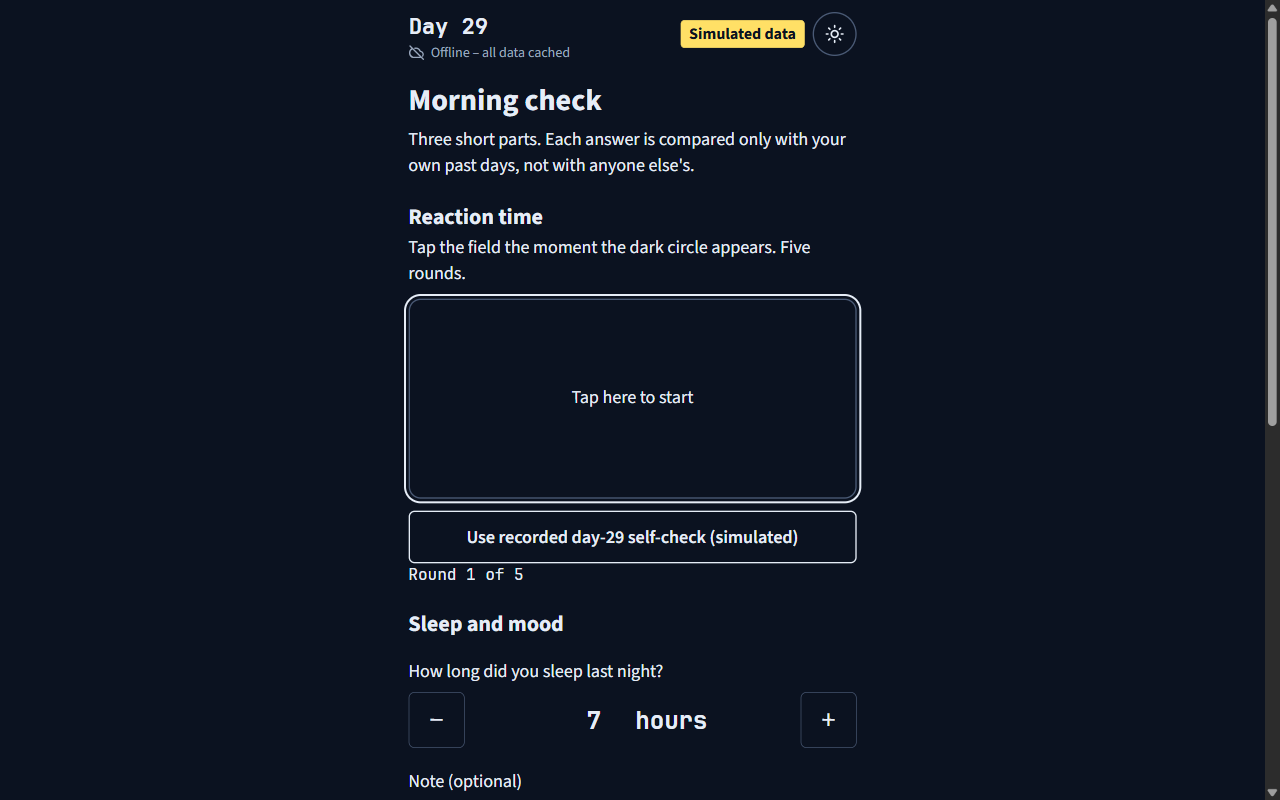
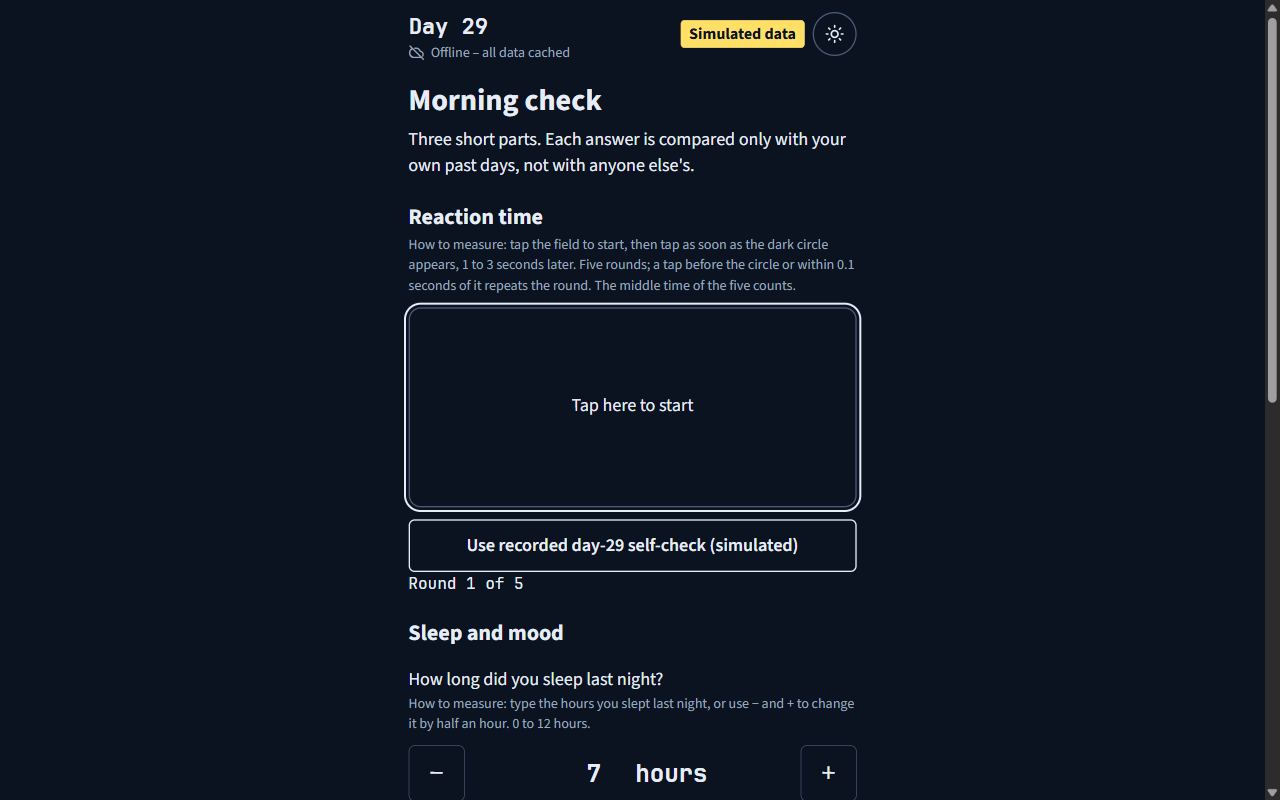
Statement labels: Guidance, Needs flight surgeon attention, and a How to measure line under each self-check part

diff --git a/index.html b/index.html
@@ -290,7 +290,7 @@ fieldset { border: 0; padding: 0; margin: 28px 0 0; min-width: 0; }
   <p>Three short parts. Each answer is compared only with your own past days, not with anyone else's.</p>
 
   <h2>Reaction time</h2>
-  <p>Tap the field the moment the dark circle appears. Five rounds.</p>
+  <p class="meta how">How to measure: tap the field to start, then tap as soon as the dark circle appears, 1 to 3 seconds later. Five rounds; a tap before the circle or within 0.1 seconds of it repeats the round. The middle time of the five counts.</p>
   <button id="rt-field" class="rt" type="button" aria-describedby="rt-status">
     <span id="rt-dot" class="rt-dot" role="img" aria-label="Circle shown, tap now" hidden></span>
     <span id="rt-text">Tap here to start</span>
@@ -302,6 +302,7 @@ fieldset { border: 0; padding: 0; margin: 28px 0 0; min-width: 0; }
 
   <h2>Sleep and mood</h2>
   <label class="q" for="sleep">How long did you sleep last night?</label>
+  <p class="meta how">How to measure: type the hours you slept last night, or use − and + to change it by half an hour. 0 to 12 hours.</p>
   <div class="stepper">
     <button class="step-btn" type="button" data-step="-0.5" aria-label="Half an hour less">−</button>
     <span class="step-field"><input id="sleep" class="field" type="number" inputmode="decimal" step="0.5" min="0" max="12" value="7"> hours</span>
@@ -312,6 +313,7 @@ fieldset { border: 0; padding: 0; margin: 28px 0 0; min-width: 0; }
 
   <fieldset aria-describedby="quality-ends">
     <legend>How well did you sleep?</legend>
+    <p class="meta how">How to measure: tap one number, from 1 (badly) to 5 (very well).</p>
     <div class="seg">
       <input type="radio" id="quality-1" name="quality" value="1"><label for="quality-1">1</label>
       <input type="radio" id="quality-2" name="quality" value="2"><label for="quality-2">2</label>
@@ -324,6 +326,7 @@ fieldset { border: 0; padding: 0; margin: 28px 0 0; min-width: 0; }
 
   <fieldset aria-describedby="mood-ends">
     <legend>How is your mood this morning?</legend>
+    <p class="meta how">How to measure: tap one number, from 1 (very low) to 5 (very good).</p>
     <div class="seg">
       <input type="radio" id="mood-1" name="mood" value="1"><label for="mood-1">1</label>
       <input type="radio" id="mood-2" name="mood" value="2"><label for="mood-2">2</label>
@@ -335,7 +338,7 @@ fieldset { border: 0; padding: 0; margin: 28px 0 0; min-width: 0; }
   </fieldset>
 
   <h2>Near vision</h2>
-  <p>Hold the phone where you normally read, then read this line.</p>
+  <p class="meta how">How to measure: hold the phone where you normally read, read the line below, then tap Clear or Blurred.</p>
   <p class="eye-line">The galley water heater is back online after the filter swap on Thursday.</p>
   <fieldset>
     <legend>The line looks</legend>
@@ -434,7 +437,7 @@ fieldset { border: 0; padding: 0; margin: 28px 0 0; min-width: 0; }
   <p id="ev-words"></p>
   <p id="ev-study" class="cite"></p>
   <div class="step-card">
-    <h2>Step to consider</h2>
+    <h2>Guidance</h2>
     <p id="ev-step"></p>
     <p id="ev-step-source" class="cite"></p>
   </div>
@@ -463,7 +466,7 @@ fieldset { border: 0; padding: 0; margin: 28px 0 0; min-width: 0; }
 
 <section id="queue" aria-labelledby="queue-title" hidden>
   <button class="text-button back" type="button" data-go="evidence">Back to the evidence</button>
-  <h1 id="queue-title" tabindex="-1">Queued for flight surgeon</h1>
+  <h1 id="queue-title" tabindex="-1">Needs flight surgeon attention</h1>
   <p class="sent">Sent to the queue. Earliest reply in 44 minutes (22 minutes each way at Mars distance).</p>
   <h2>Summary in the queue</h2>
   <div id="message" class="message"></div>
